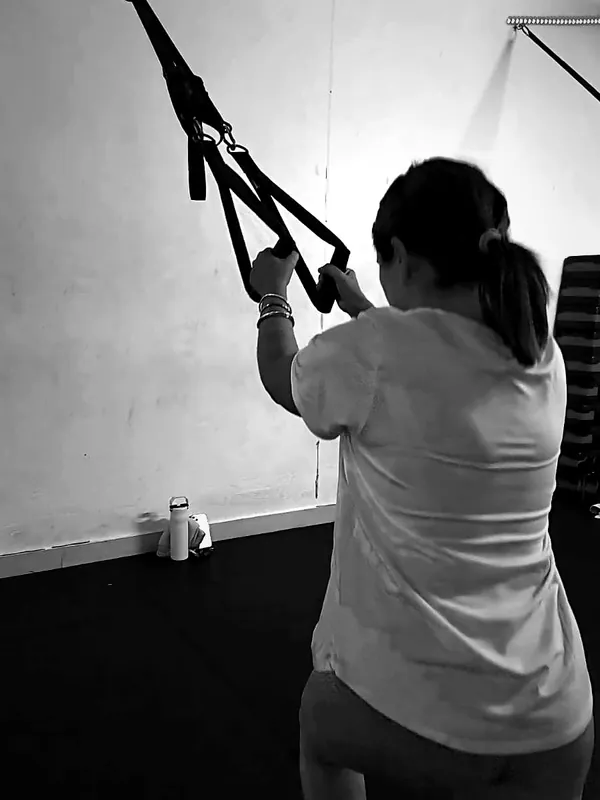
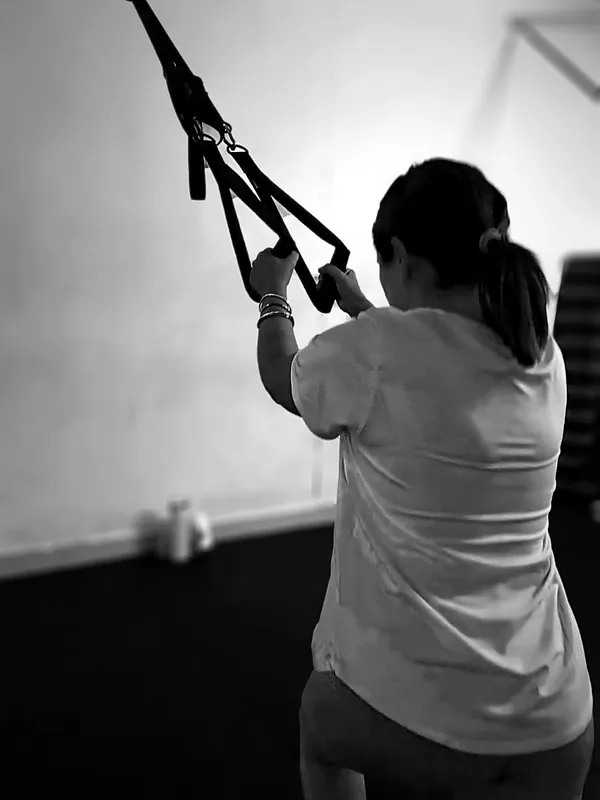
2.4.8: blur the background of the TRX photo
The member and the straps stay sharp; the wall, the bottle and the rack
behind go soft, like the stock photos on the other class cards.

Claude-Session: https://claude.ai/code/session_01Jud6ztty78yQdq4PcBB2Vi

diff --git a/index.html b/index.html
@@ -100,7 +100,7 @@ const DRAFTS = [
   { v:'2.4.6.1', file:'elite-wellness-landing_2-4-6-1.html', at:'#prices', label:'Prices, segmented and list', date:'29 Sep 2026', archived:true, group:'Prices',
     tested:'The Apple pattern. A segmented control for the product (one grey track, the chosen segment lifts to white); every option below is a plain row with its price on the right. Shared by all five: nothing is chosen when the page opens, the plan is a quiet grey box until a choice is complete, a chosen option is a faint tint with a thin edge (never a blue fill), and the heading of the question still waiting for an answer is the darker one.', why:'Not taken forward. 2.4.6 and 2.4.5.4.2 were kept.' },
   { v:'2.4.8', file:'elite-wellness-landing_2-4-8.html', at:'#classes', label:'First real class photo, TRX', date:'30 Sep 2026', status:'latest',
-    tested:'2.4.7 with a real TRX photo on the TRX class card. Picked from three shots from 29 September: a member rowing on the straps in a split stance, seen from behind, with the anchor and both straps in the frame. Black and white baked in, cropped 3:4 portrait to fit the card on desktop and in the phone carousel, 900 and 600 wide with a srcset, no metadata. The other three class cards are still stock placeholders.',
+    tested:'2.4.7 with a real TRX photo on the TRX class card. Picked from three shots from 29 September: a member rowing on the straps in a split stance, seen from behind, with the anchor and both straps in the frame. Black and white baked in, the background softly blurred like the stock photos (person and straps stay sharp), cropped 3:4 portrait to fit the card on desktop and in the phone carousel, 900 and 600 wide with a srcset, no metadata. The other three class cards are still stock placeholders.',
     next:'Send real photos for HYROX, GAP and Bike Elite and they go in the same way.' },
   { v:'2.4.7', file:'elite-wellness-landing_2-4-7.html', at:'#prices', label:'Prices, product boxes', date:'29 Sep 2026', status:'open',
     tested:'2.4.6 with the product boxes of 2.4.5.4.2 in new words: Day / week passes, Membership, Personal training, each with one line on what it is (desktop only) and a plain from price. On a phone the three boxes sit side by side as name and from price. Then the options as boxes side by side. Nothing is chosen when the page opens, a chosen box fills with the brand blue, as in 2.4.6, and the plan stays a grey box until the choice is complete. Plans read Once a week, Three times a week, Unlimited. Direct debit carries a 5 euro off tag; At reception is the standard price. Each product keeps its own choice when you look at another.',

diff --git a/build/v248.py b/build/v248.py
@@ -6,7 +6,13 @@ The photo: a member rowing on the straps in a split stance, from behind, so
 no face; chosen from three TRX shots of 29 September because it is the only
 one showing a whole movement with the anchor and the straps. Black and white
 baked in, cropped to a 3:4 portrait (the card is portrait on every screen),
-900 and 600 wide, no metadata."""
+900 and 600 wide, no metadata.
+
+7 October: a shallow depth of field added to match the stock photos. The
+person and the straps were cut out with rembg (u2net_human_seg for the body,
+isnet-general-use for the straps, the two masks combined); the background was
+blurred with a round lens kernel, strongest on the far wall and lighter on
+the floor in front, then the sharp subject laid back on top with a soft edge."""
 import io
 s = io.open('elite-wellness-landing_2-4-7.html', encoding='utf-8').read()
 old = '<img class="class-img" src="https://images.unsplash.com/photo-1571019614242-c5c5dee9f50b?q=80&w=800&auto=format&fit=crop" alt="PLACEHOLDER: replace with a real TRX class photo">'
